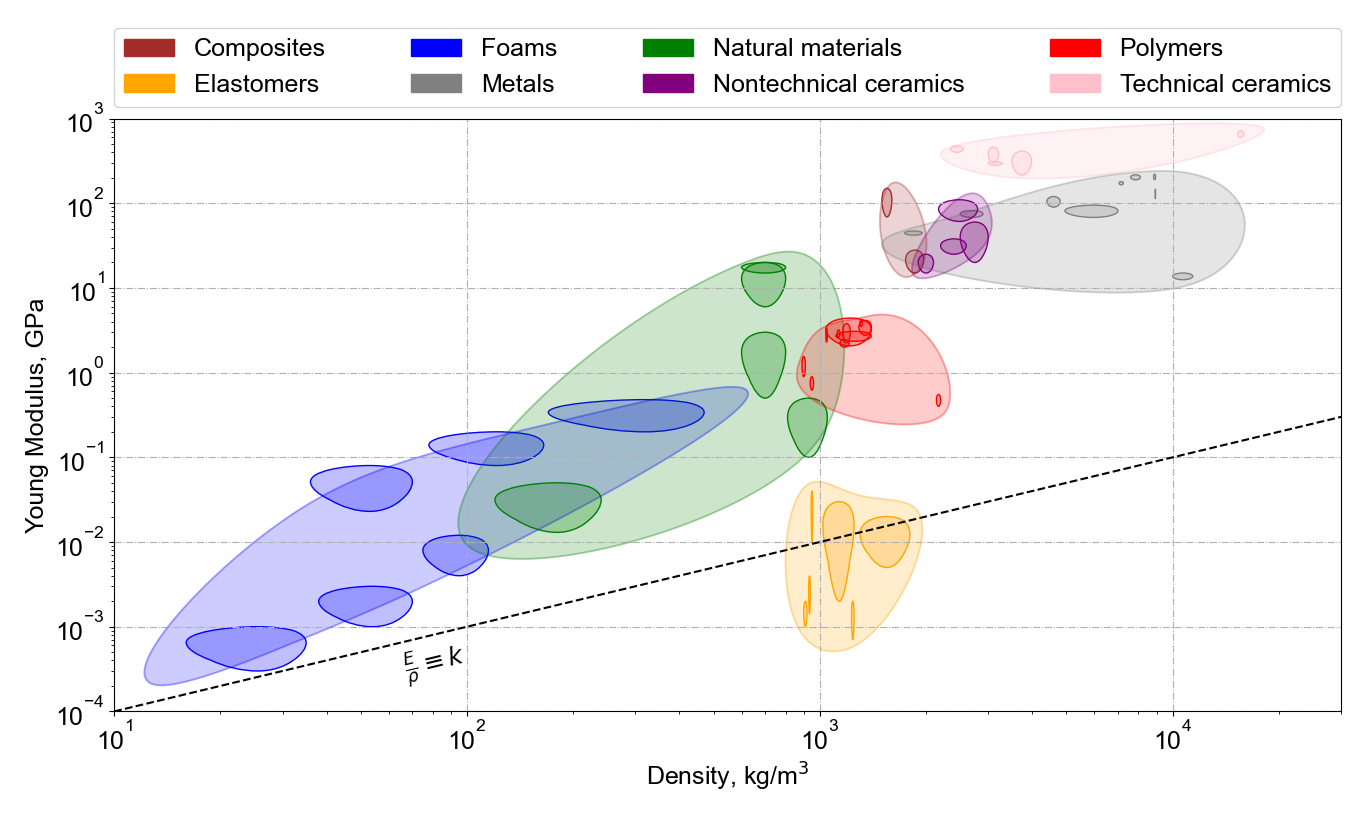
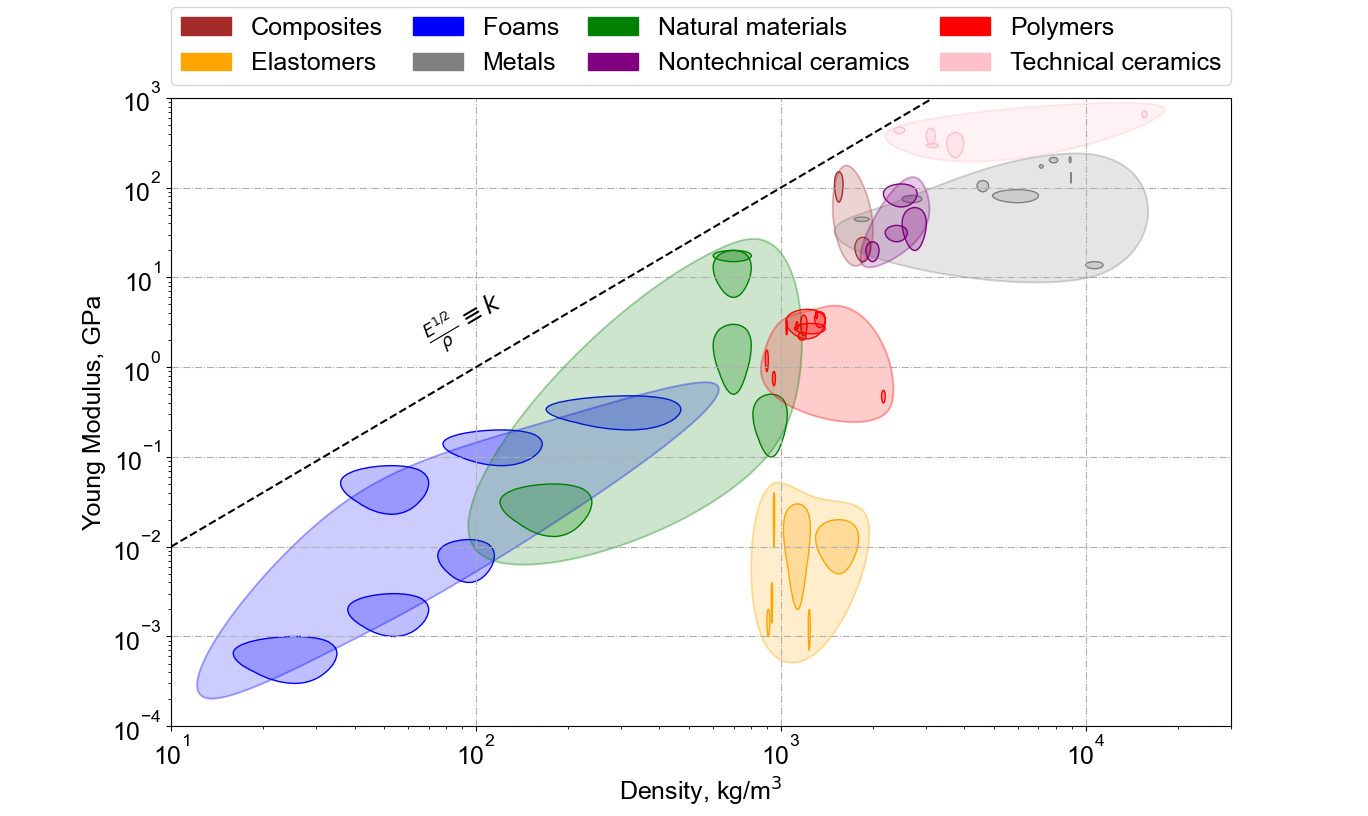
update sample plot
modified the power and annotation location of the sample plot.

diff --git a/plot_ashby.py b/plot_ashby.py
@@ -71,14 +71,14 @@ if __name__ == '__main__':
 
     if guideline_flag:
         guideline = {
-            'power':1, #power to plot the guideline on (e.g., 1/3, 1)
+            'power':2, #power to plot the guideline on (e.g., 1/3, 1)
             'x_lim':[1E1, 1E5], #x-limits of the guideline (not necessarily the figure x limits)
-            'string':r"$\frac{E}{\rho} \equiv k$", #string to display
+            'string':r"$\frac{E^{1/2}}{\rho} \equiv k$", #string to display
             # 'string':r"$\frac{1}{(1+\nu)\rho} \equiv k$",
             #y-intercept of the guideline, 0.001 for poisson, 1E-10 for stiffness
-            'y_intercept': 1E-5,
+            'y_intercept': 1E-4,
             #location of the annotation, (300,0.51) for poisson, (65, 2E-4) for stiffness
-            'string_position': (65, 5E-4) ,
+            'string_position': (65, 3) ,
             }
 
     # Flag to plot individual materials as stars.
